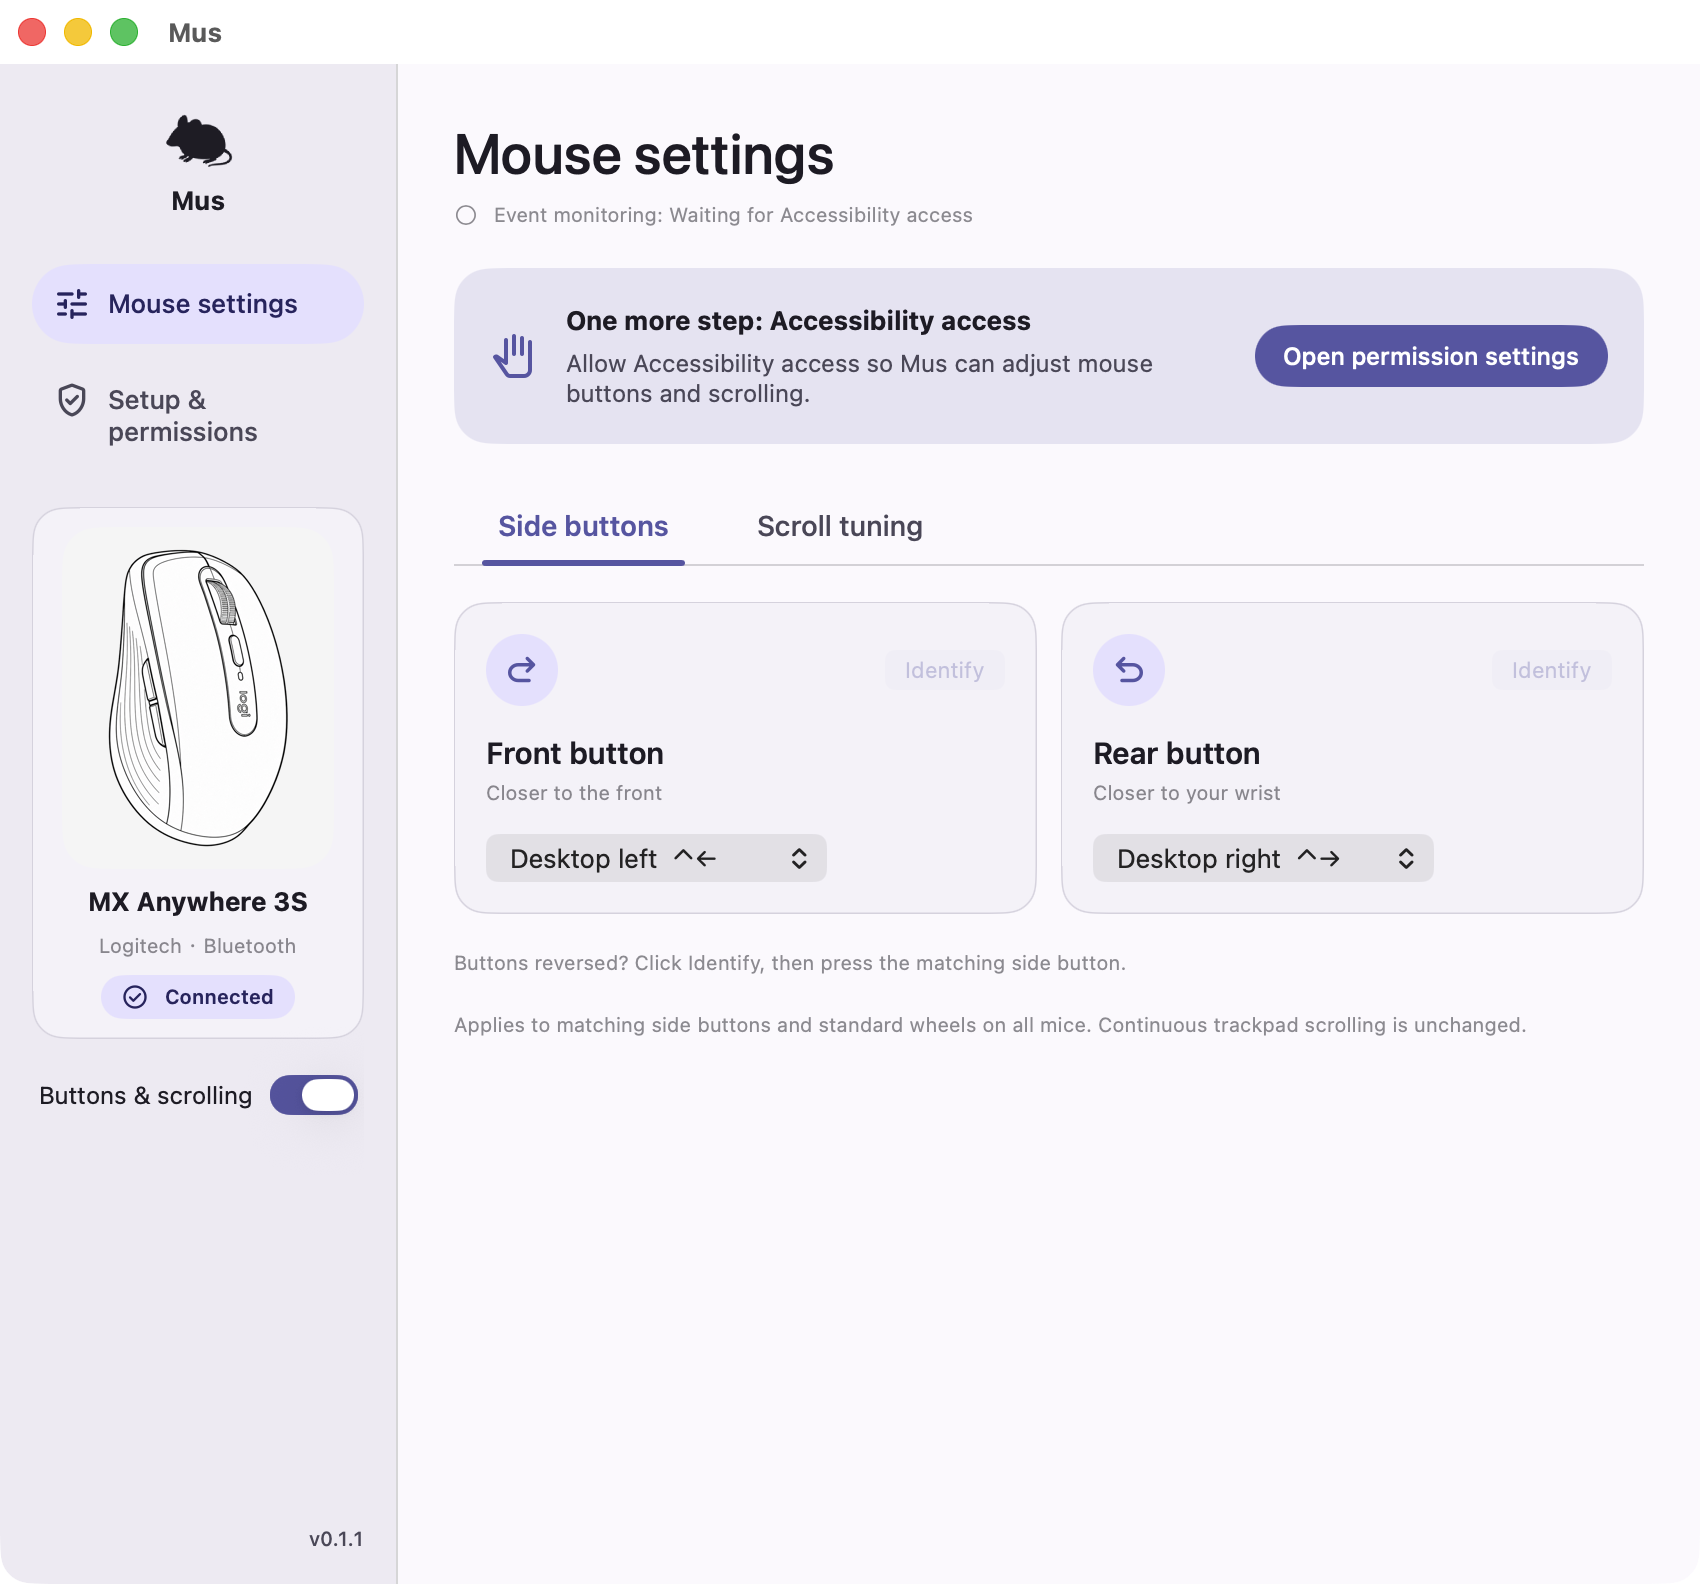
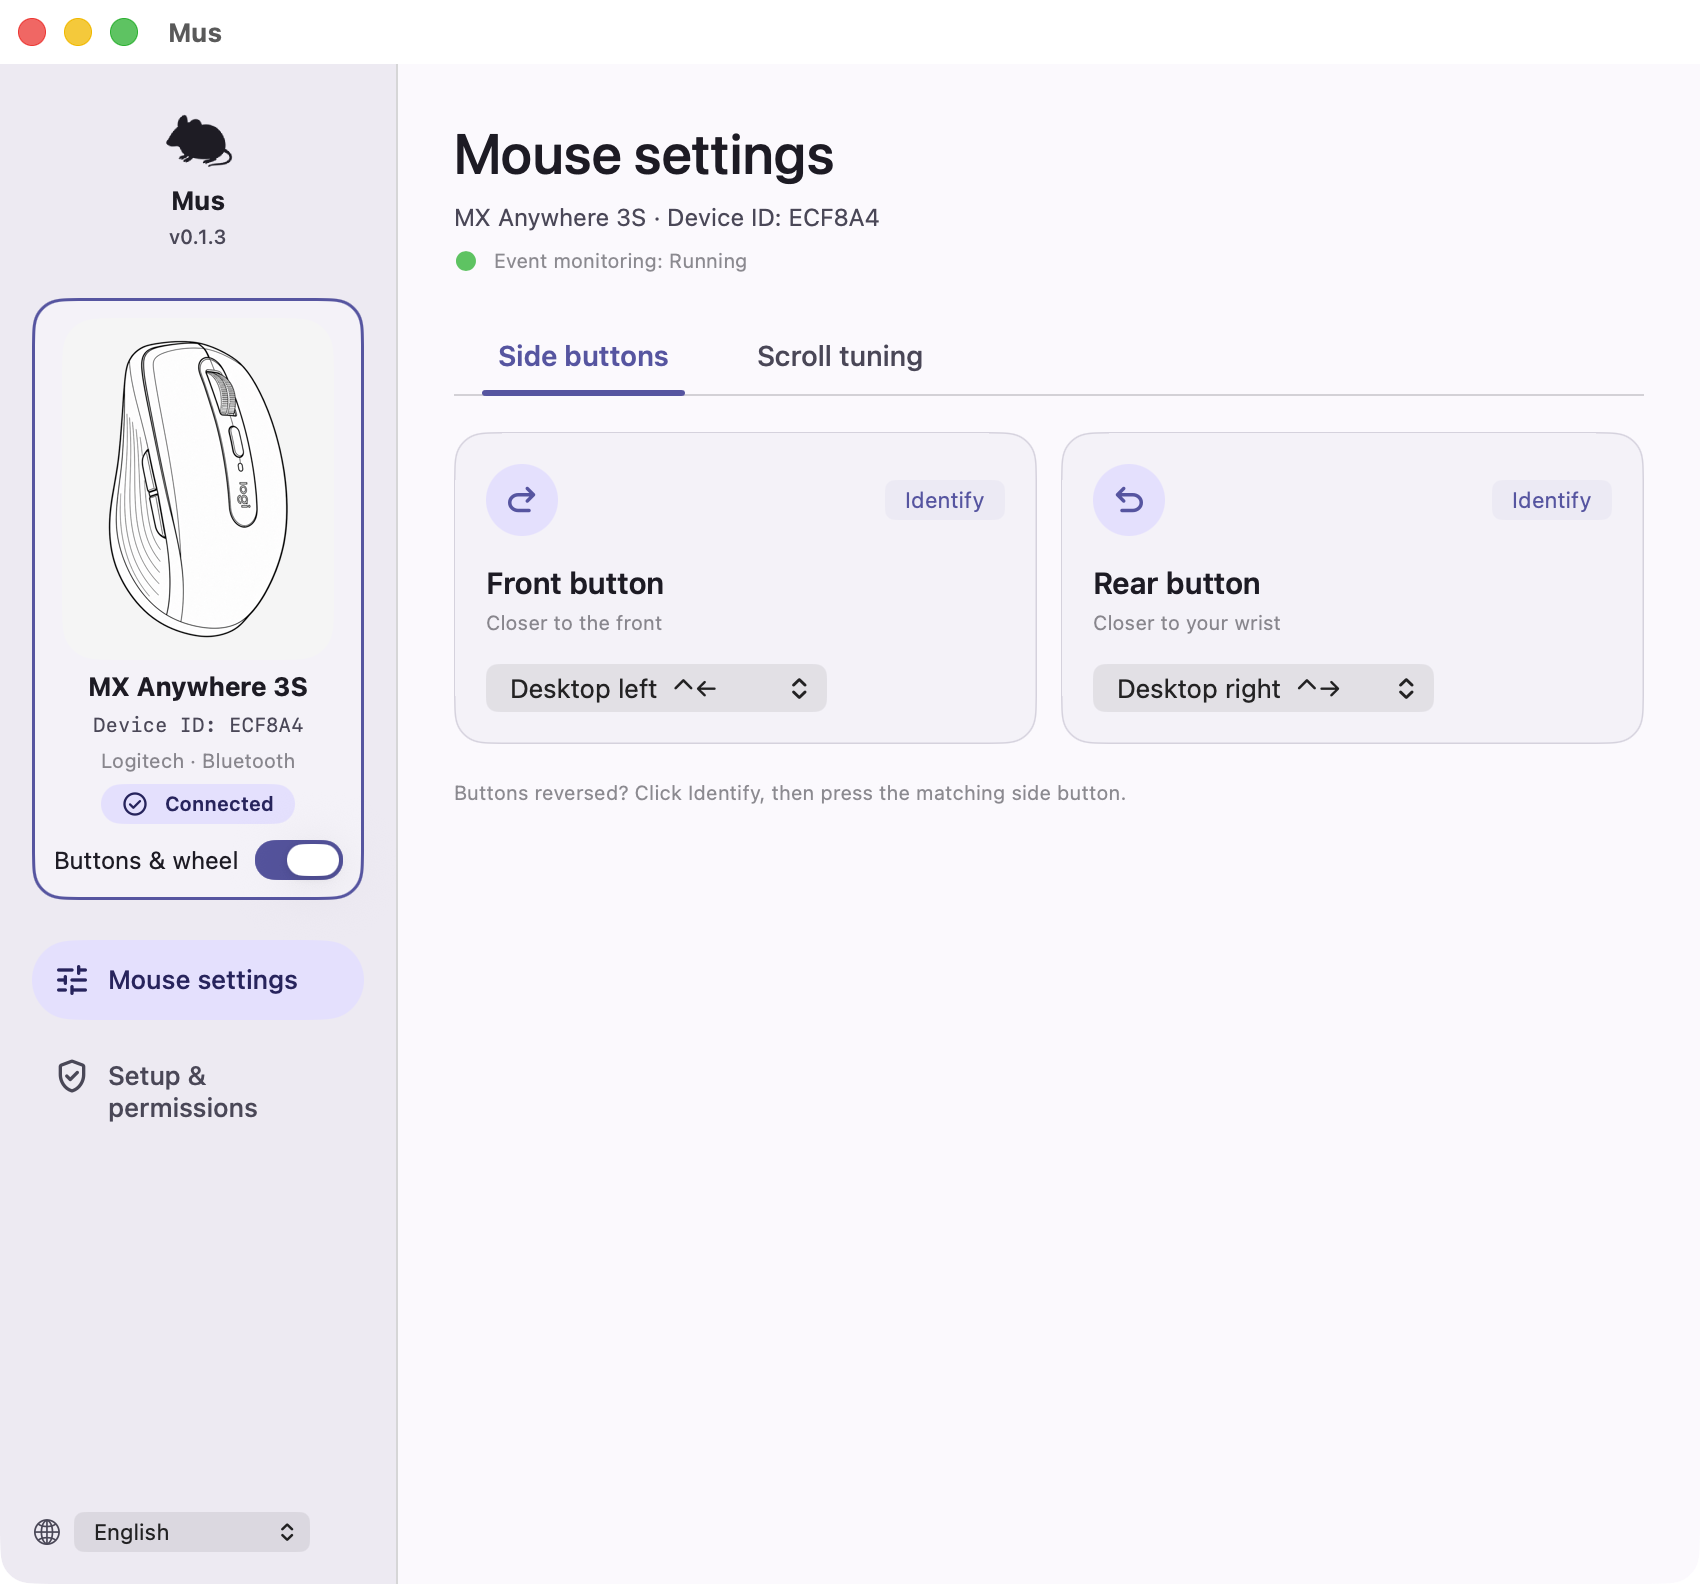
Refresh README screenshots for Mus v0.1.3 and remove tagline

diff --git a/README.en.md b/README.en.md
@@ -6,8 +6,6 @@
 
 [简体中文](README.md) | **English**
 
-**Small app. Better control.**
-
 **Mus is a lightweight, simplified alternative to Logi Options+. It currently supports only the MX Anywhere 3S.**
 
 A native macOS menu bar utility for side-button shortcuts, scroll direction, and wheel tuning.
@@ -16,7 +14,7 @@ Swift / SwiftUI · macOS 14+ · Simplified Chinese / English · MIT
 
 [Quick start](#quick-start) · [Usage](#usage) · [FAQ](#faq) · [Contributing](#contributing)
 
-![Mus v0.1.1 settings with the MX Anywhere 3S and its front and rear button mappings](docs/screenshots/settings-en.png)
+![Mus v0.1.3 settings showing the MX Anywhere 3S device ID and toggle in the sidebar, with monitoring status and side button mappings on the right](docs/screenshots/settings-en.png)
 
 ## Why Mus?
 

diff --git a/README.md b/README.md
@@ -6,8 +6,6 @@
 
 **简体中文** | [English](README.en.md)
 
-**轻一点，刚刚好。**
-
 **Mus 是 Logi Options+ 的轻量简化替代工具，目前仅支持 MX Anywhere 3S。**
 
 常驻 macOS 菜单栏，专注侧键快捷操作、滚动方向和滚轮手感。
@@ -16,7 +14,7 @@
 
 [快速开始](#快速开始) · [使用指南](#使用指南) · [常见问题](#常见问题) · [参与贡献](#参与贡献)
 
-![Mus v0.1.1 设置窗口，左侧显示 MX Anywhere 3S，右侧可设置前后侧键动作](docs/screenshots/settings-zh-Hans.png)
+![Mus v0.1.3 设置窗口，左侧显示 MX Anywhere 3S 的设备 ID 和开关，右侧显示监听状态及前后侧键设置](docs/screenshots/settings-zh-Hans.png)
 
 ## 为什么是 Mus？
 
